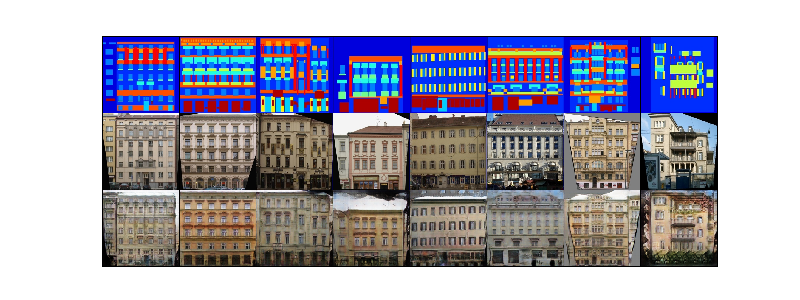
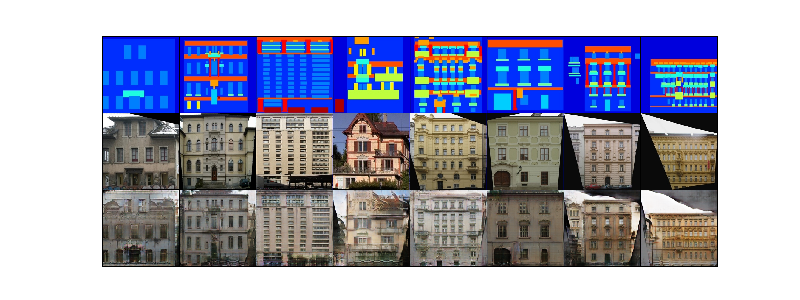
Update display_result.py

diff --git a/display_result.py b/display_result.py
@@ -4,7 +4,7 @@ import torch
 import torchvision.utils as vutils
 import matplotlib.pyplot as plt
 
-dir_result = './result/pix2pix/facades/images'
+dir_result = './results/pix2pix/facades/images'
 lst_result = os.listdir(dir_result)
 
 nx = 256
@@ -14,11 +14,14 @@ nch = 3
 n = 8
 m = 3
 
+n_id = np.arange(len(lst_result)//m)
+np.random.shuffle(n_id)
+
 img = torch.zeros((n*m, ny, nx, nch))
 
 for i in range(m):
     for j in range(n):
-        p = i + m*j
+        p = i + m*n_id[j]
         q = n*i + j
 
         img[q, :, :, :] = torch.from_numpy(plt.imread(os.path.join(dir_result, lst_result[p]))[:, :, :nch])
